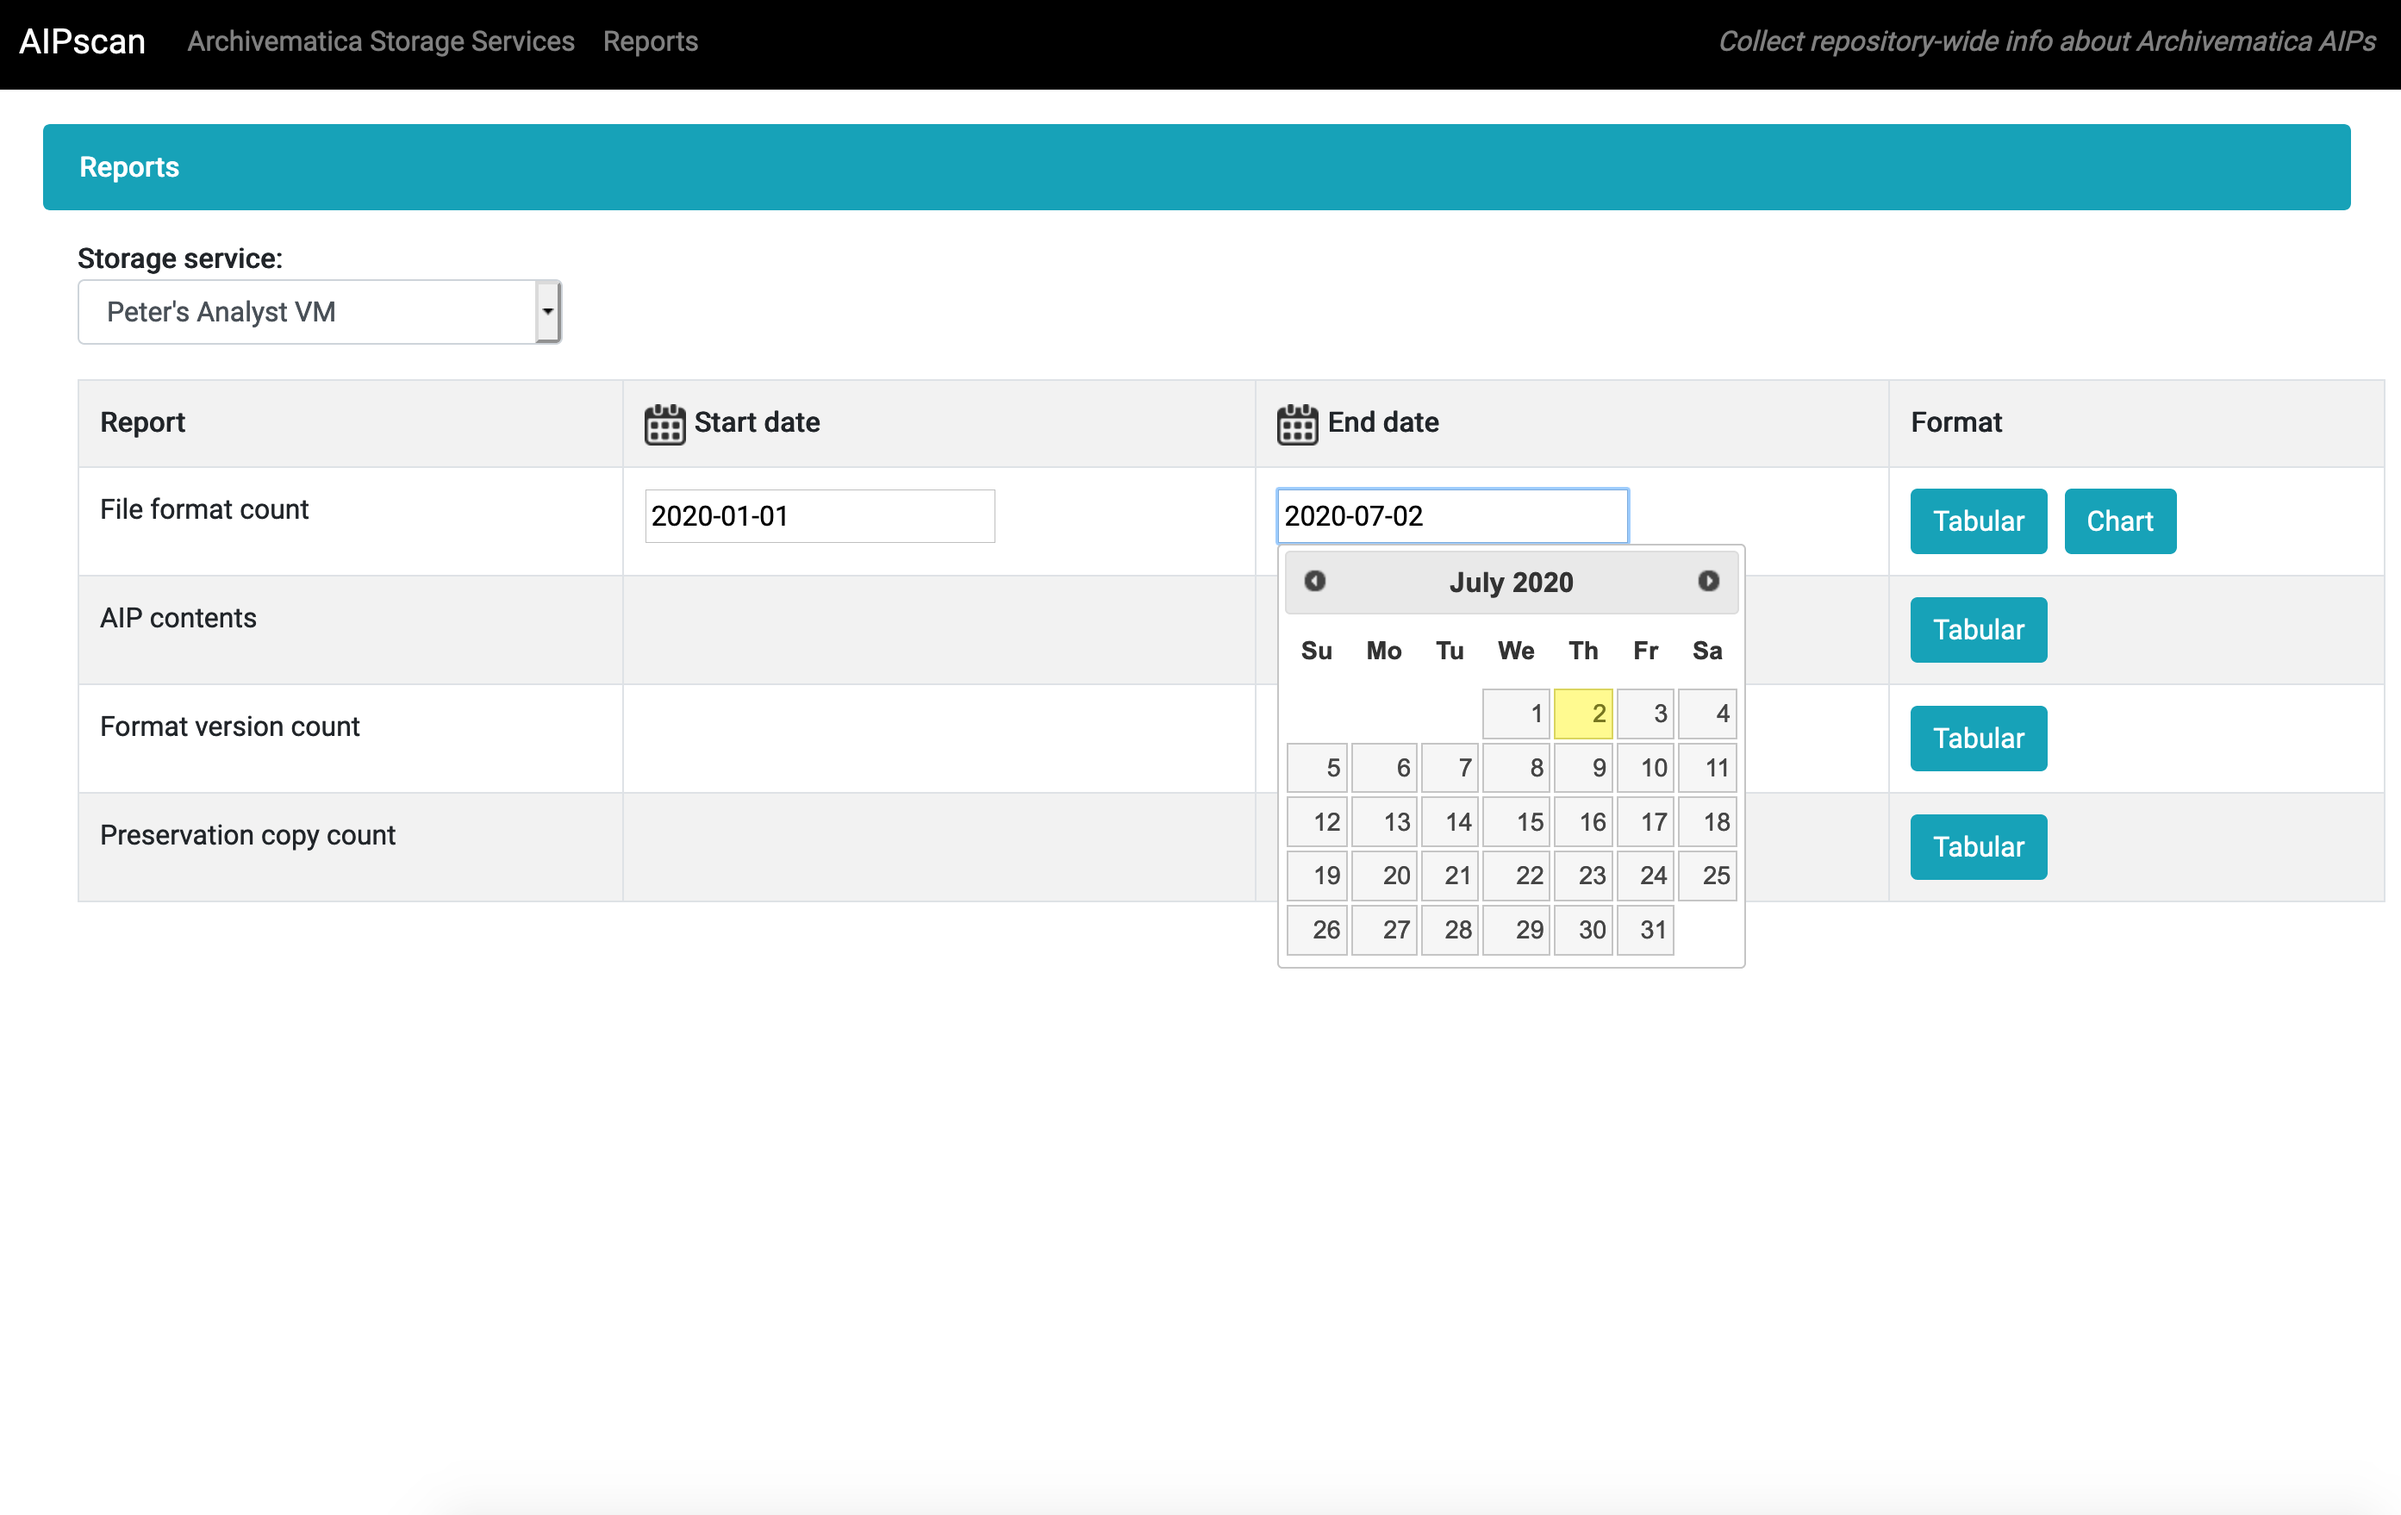
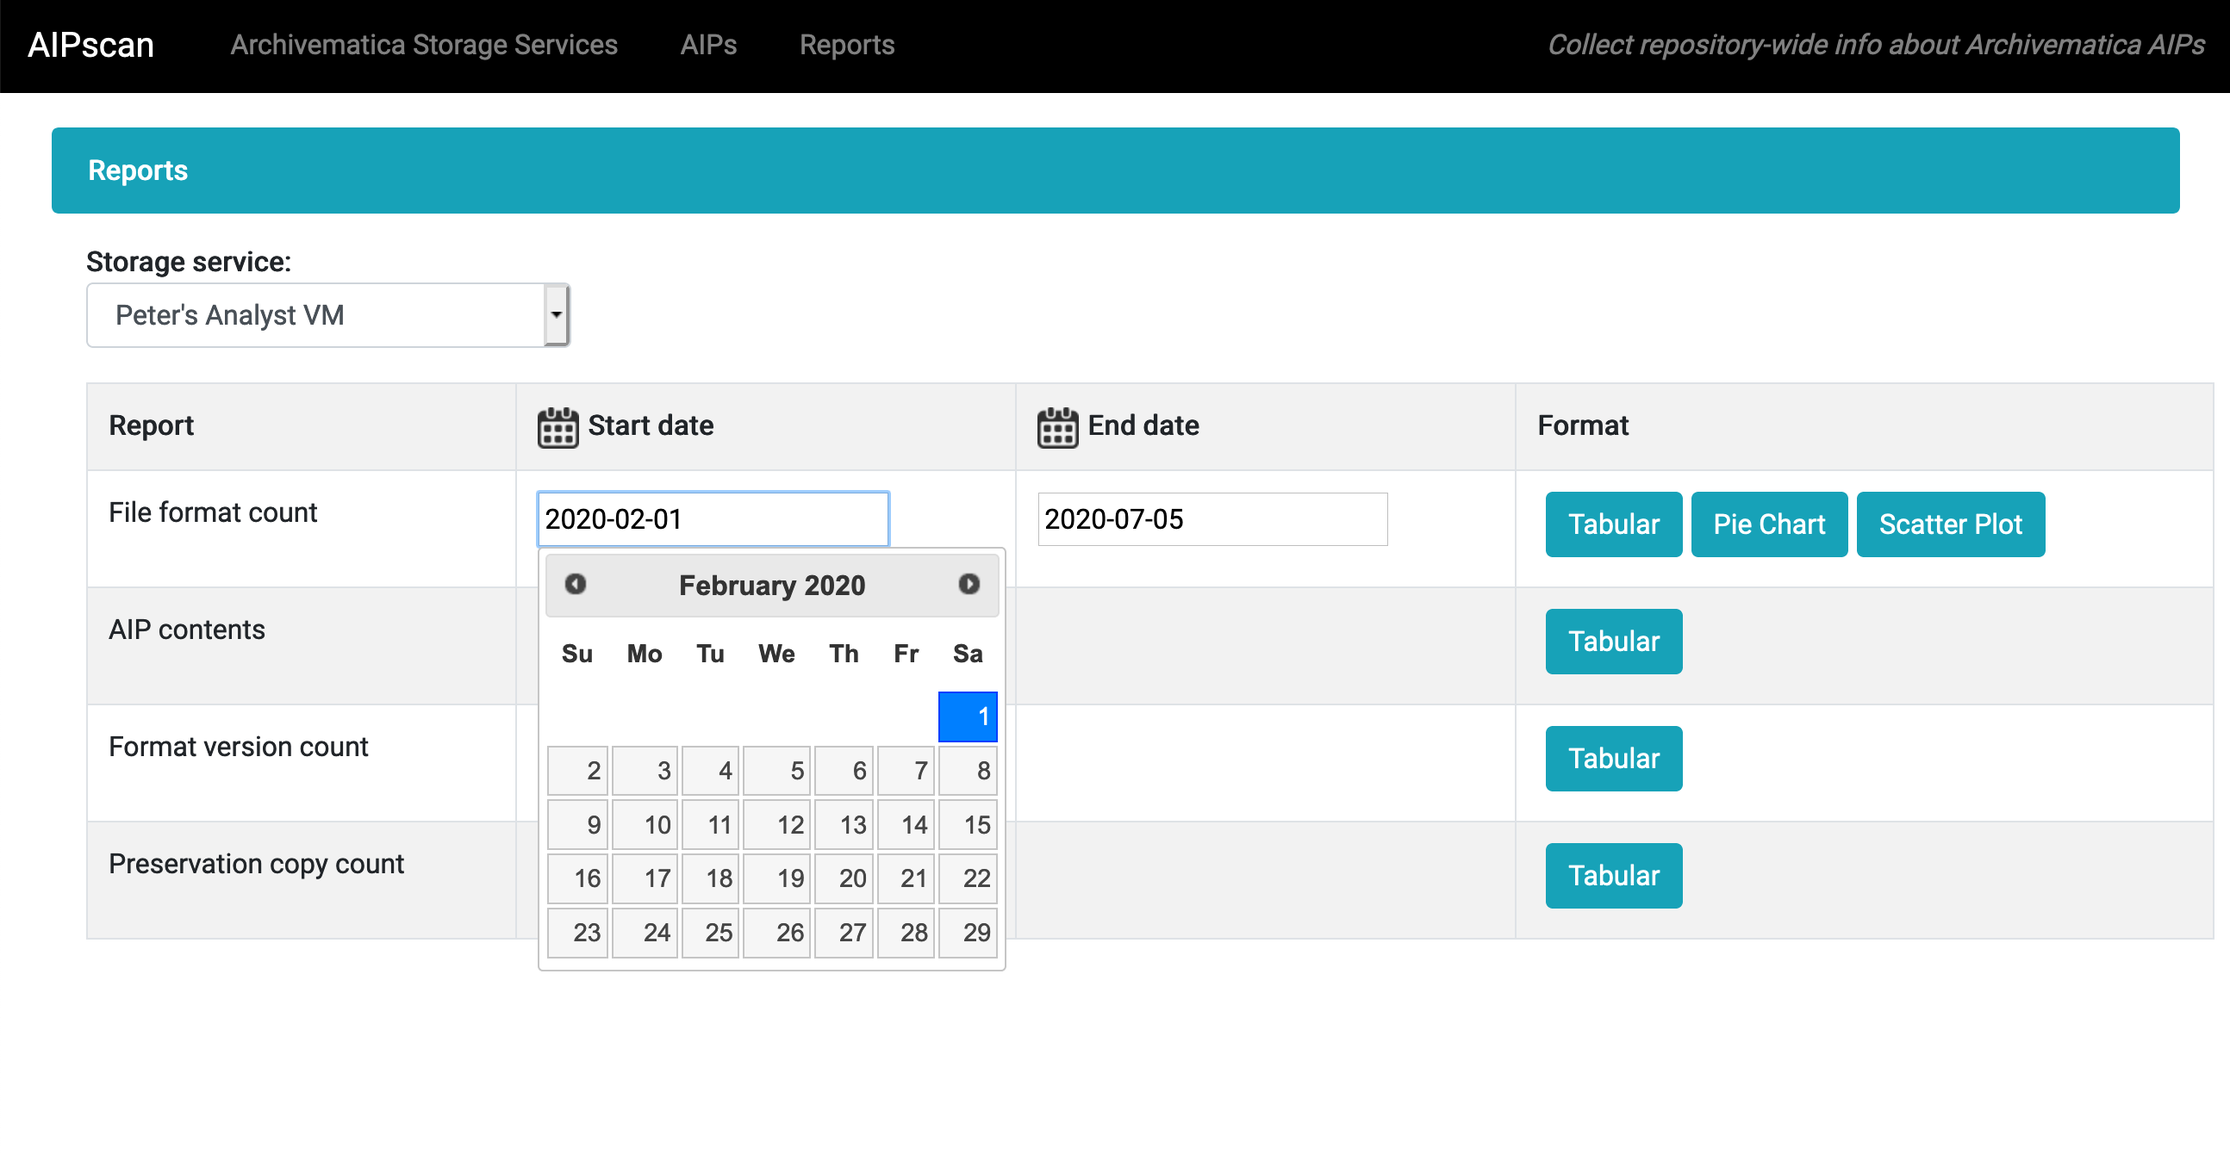
update screencaps
(cherry picked from commit 7874f7b1d78e03dd42939a0148042d9dfcfbebb3)

diff --git a/readme.md b/readme.md
@@ -7,7 +7,7 @@ Collect repository-wide info about [Archivematica](https://archivematica.org) Ar
 
 ![screencap3](screencaps/aipscan_select_report.png)
 
-![screencap4](screencaps/aipscan_piechart_report.png)
+![screencap4](screencaps/aipscan_scatterplot_report.png)
 
 
 # Installation
